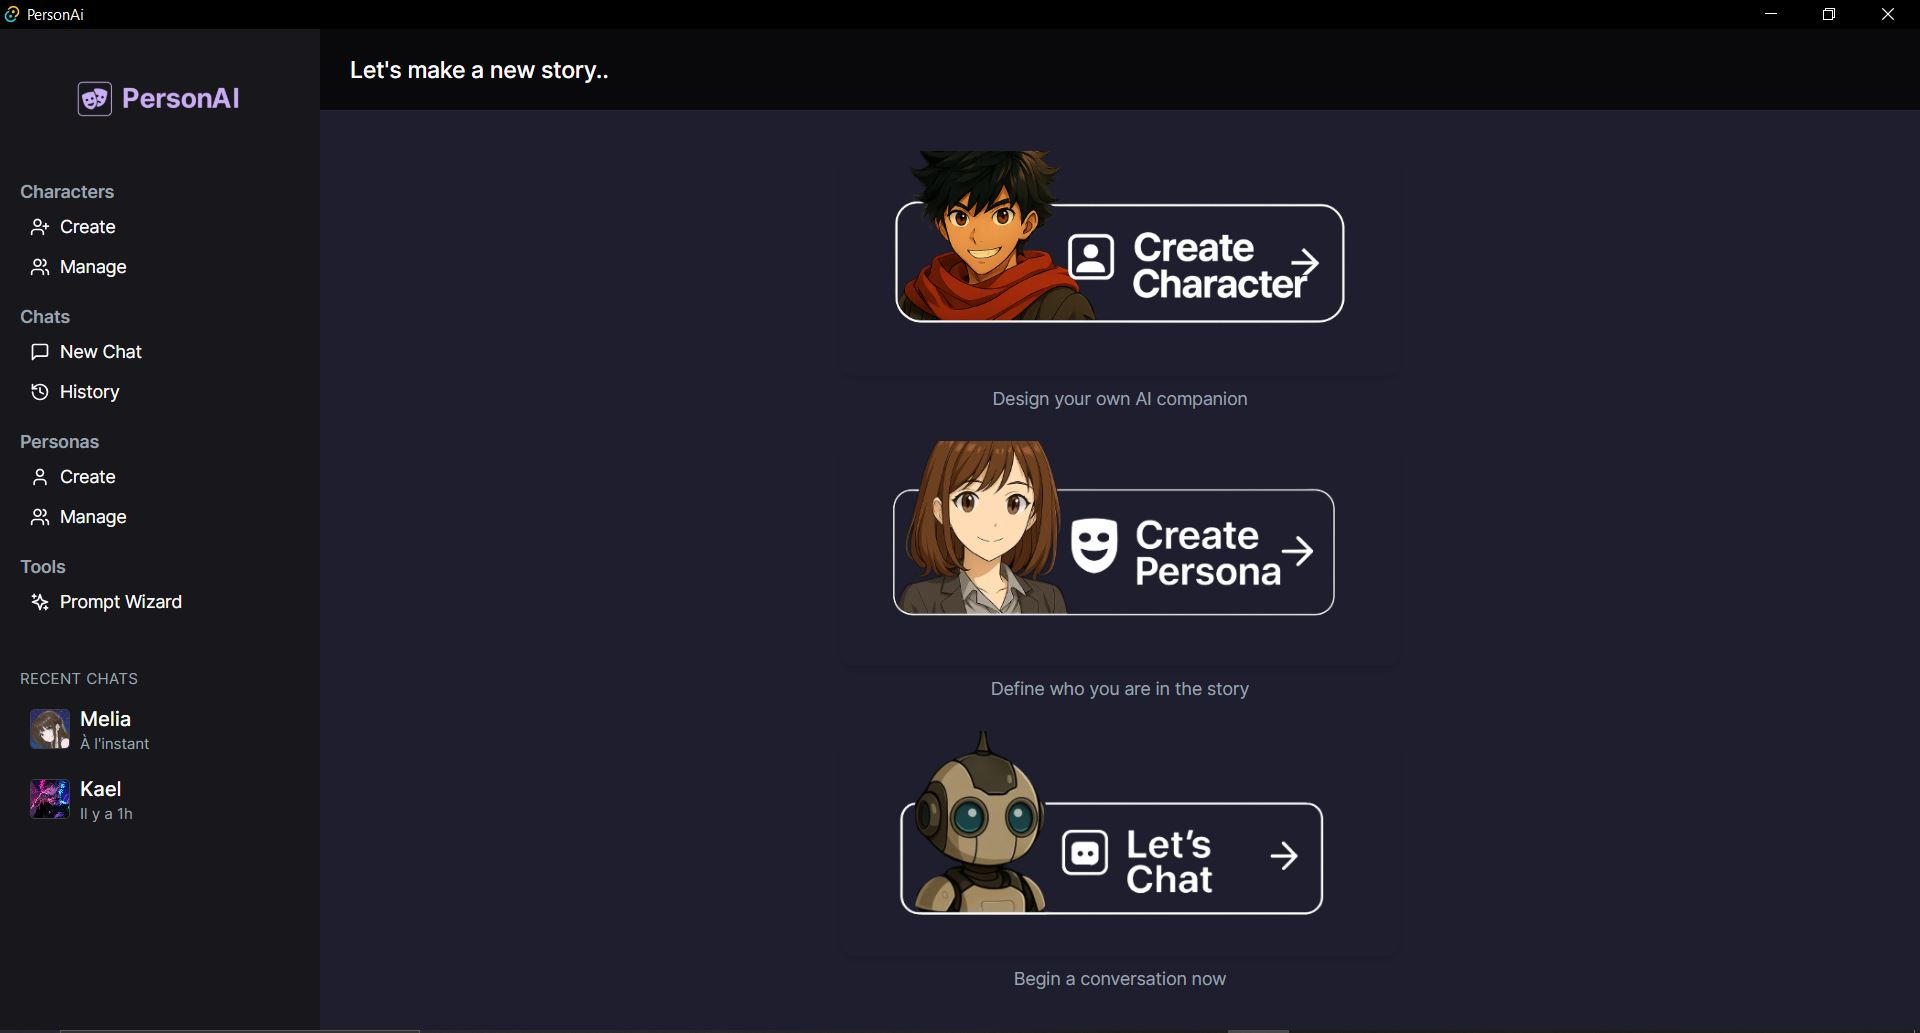
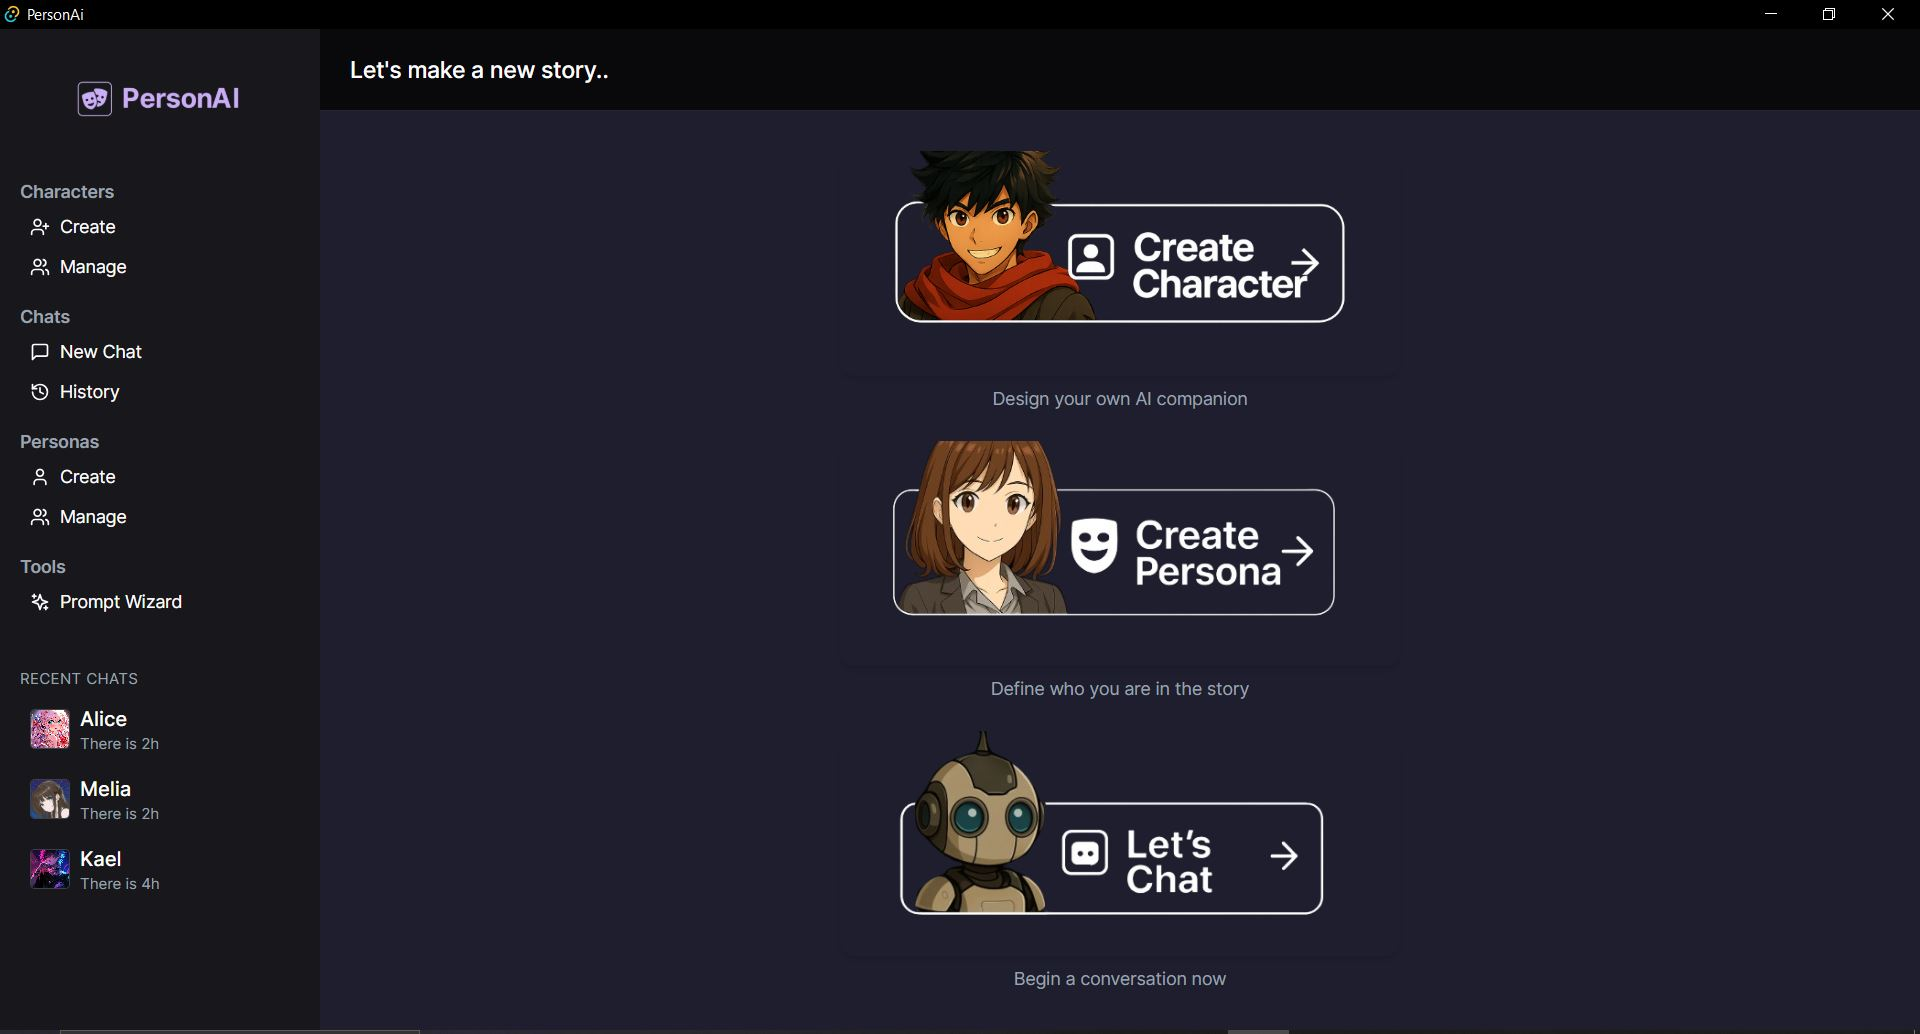
picture correction

diff --git a/tauri-ui/src/pages/ChatPage.tsx b/tauri-ui/src/pages/ChatPage.tsx
@@ -189,7 +189,7 @@ const ChatPage = () => {
         <div className="px-6 py-4 border-b border-zinc-800 bg-zinc-900 flex justify-between">
           <div className="flex items-center gap-4">
             <button onClick={() => navigate("/")} className="text-gray-400 hover:text-white">← Retour</button>
-            <h1 className="text-xl font-semibold">Discussion avec {character?.name || "Personnage"}</h1>
+            <h1 className="text-xl font-semibold">Roleplay with {character?.name || "Personnage"}</h1>
           </div>
           <div className="flex items-center gap-2">
             <button onClick={resetConversation} className="bg-red-600 hover:bg-red-700 px-3 py-1 text-sm rounded text-white">🔄 Reset</button>
@@ -222,7 +222,7 @@ const ChatPage = () => {
               <div className="bg-zinc-700/60 px-4 py-3 rounded-xl">
                 <div className="flex items-center gap-2">
                   <div className="animate-spin w-4 h-4 border-2 border-purple-600 border-t-transparent rounded-full"></div>
-                  <span className="text-sm opacity-70">{character?.name} tape...</span>
+                  <span className="text-sm opacity-70">{character?.name} writing...</span>
                 </div>
               </div>
             </div>
@@ -237,7 +237,7 @@ const ChatPage = () => {
               value={input}
               onChange={(e) => setInput(e.target.value)}
               onKeyDown={handleKeyDown}
-              placeholder="Écrivez votre message..."
+              placeholder="Write your message..."
               rows={1}
               className="flex-1 p-3 rounded-lg bg-zinc-800 resize-none focus:outline-none focus:ring-2 focus:ring-purple-600"
               disabled={loading}
@@ -247,11 +247,11 @@ const ChatPage = () => {
               disabled={loading || !input.trim()}
               className="bg-purple-600 hover:bg-purple-700 px-5 py-2 rounded-lg text-white disabled:opacity-50 disabled:cursor-not-allowed transition-colors"
             >
-              {loading ? "⏳" : "Envoyer"}
+              {loading ? "⏳" : "Send"}
             </button>
           </form>
           <div className="text-xs text-gray-400 mt-1">
-            Entrée = envoyer, Shift+Entrée = retour ligne
+            Enter = send, Shift+Enter = line back
           </div>
         </div>
       </div>

diff --git a/tauri-ui/src/components/Sidebar.tsx b/tauri-ui/src/components/Sidebar.tsx
@@ -85,9 +85,9 @@ const Sidebar = () => {
     const now = new Date();
     const diffHours = Math.floor((now.getTime() - date.getTime()) / (1000 * 60 * 60));
     
-    if (diffHours < 1) return "À l'instant";
-    if (diffHours < 24) return `Il y a ${diffHours}h`;
-    if (diffHours < 48) return "Hier";
+    if (diffHours < 1) return "Now";
+    if (diffHours < 24) return `There is ${diffHours}h`;
+    if (diffHours < 48) return "Yesterday";
     return date.toLocaleDateString();
   };
 
